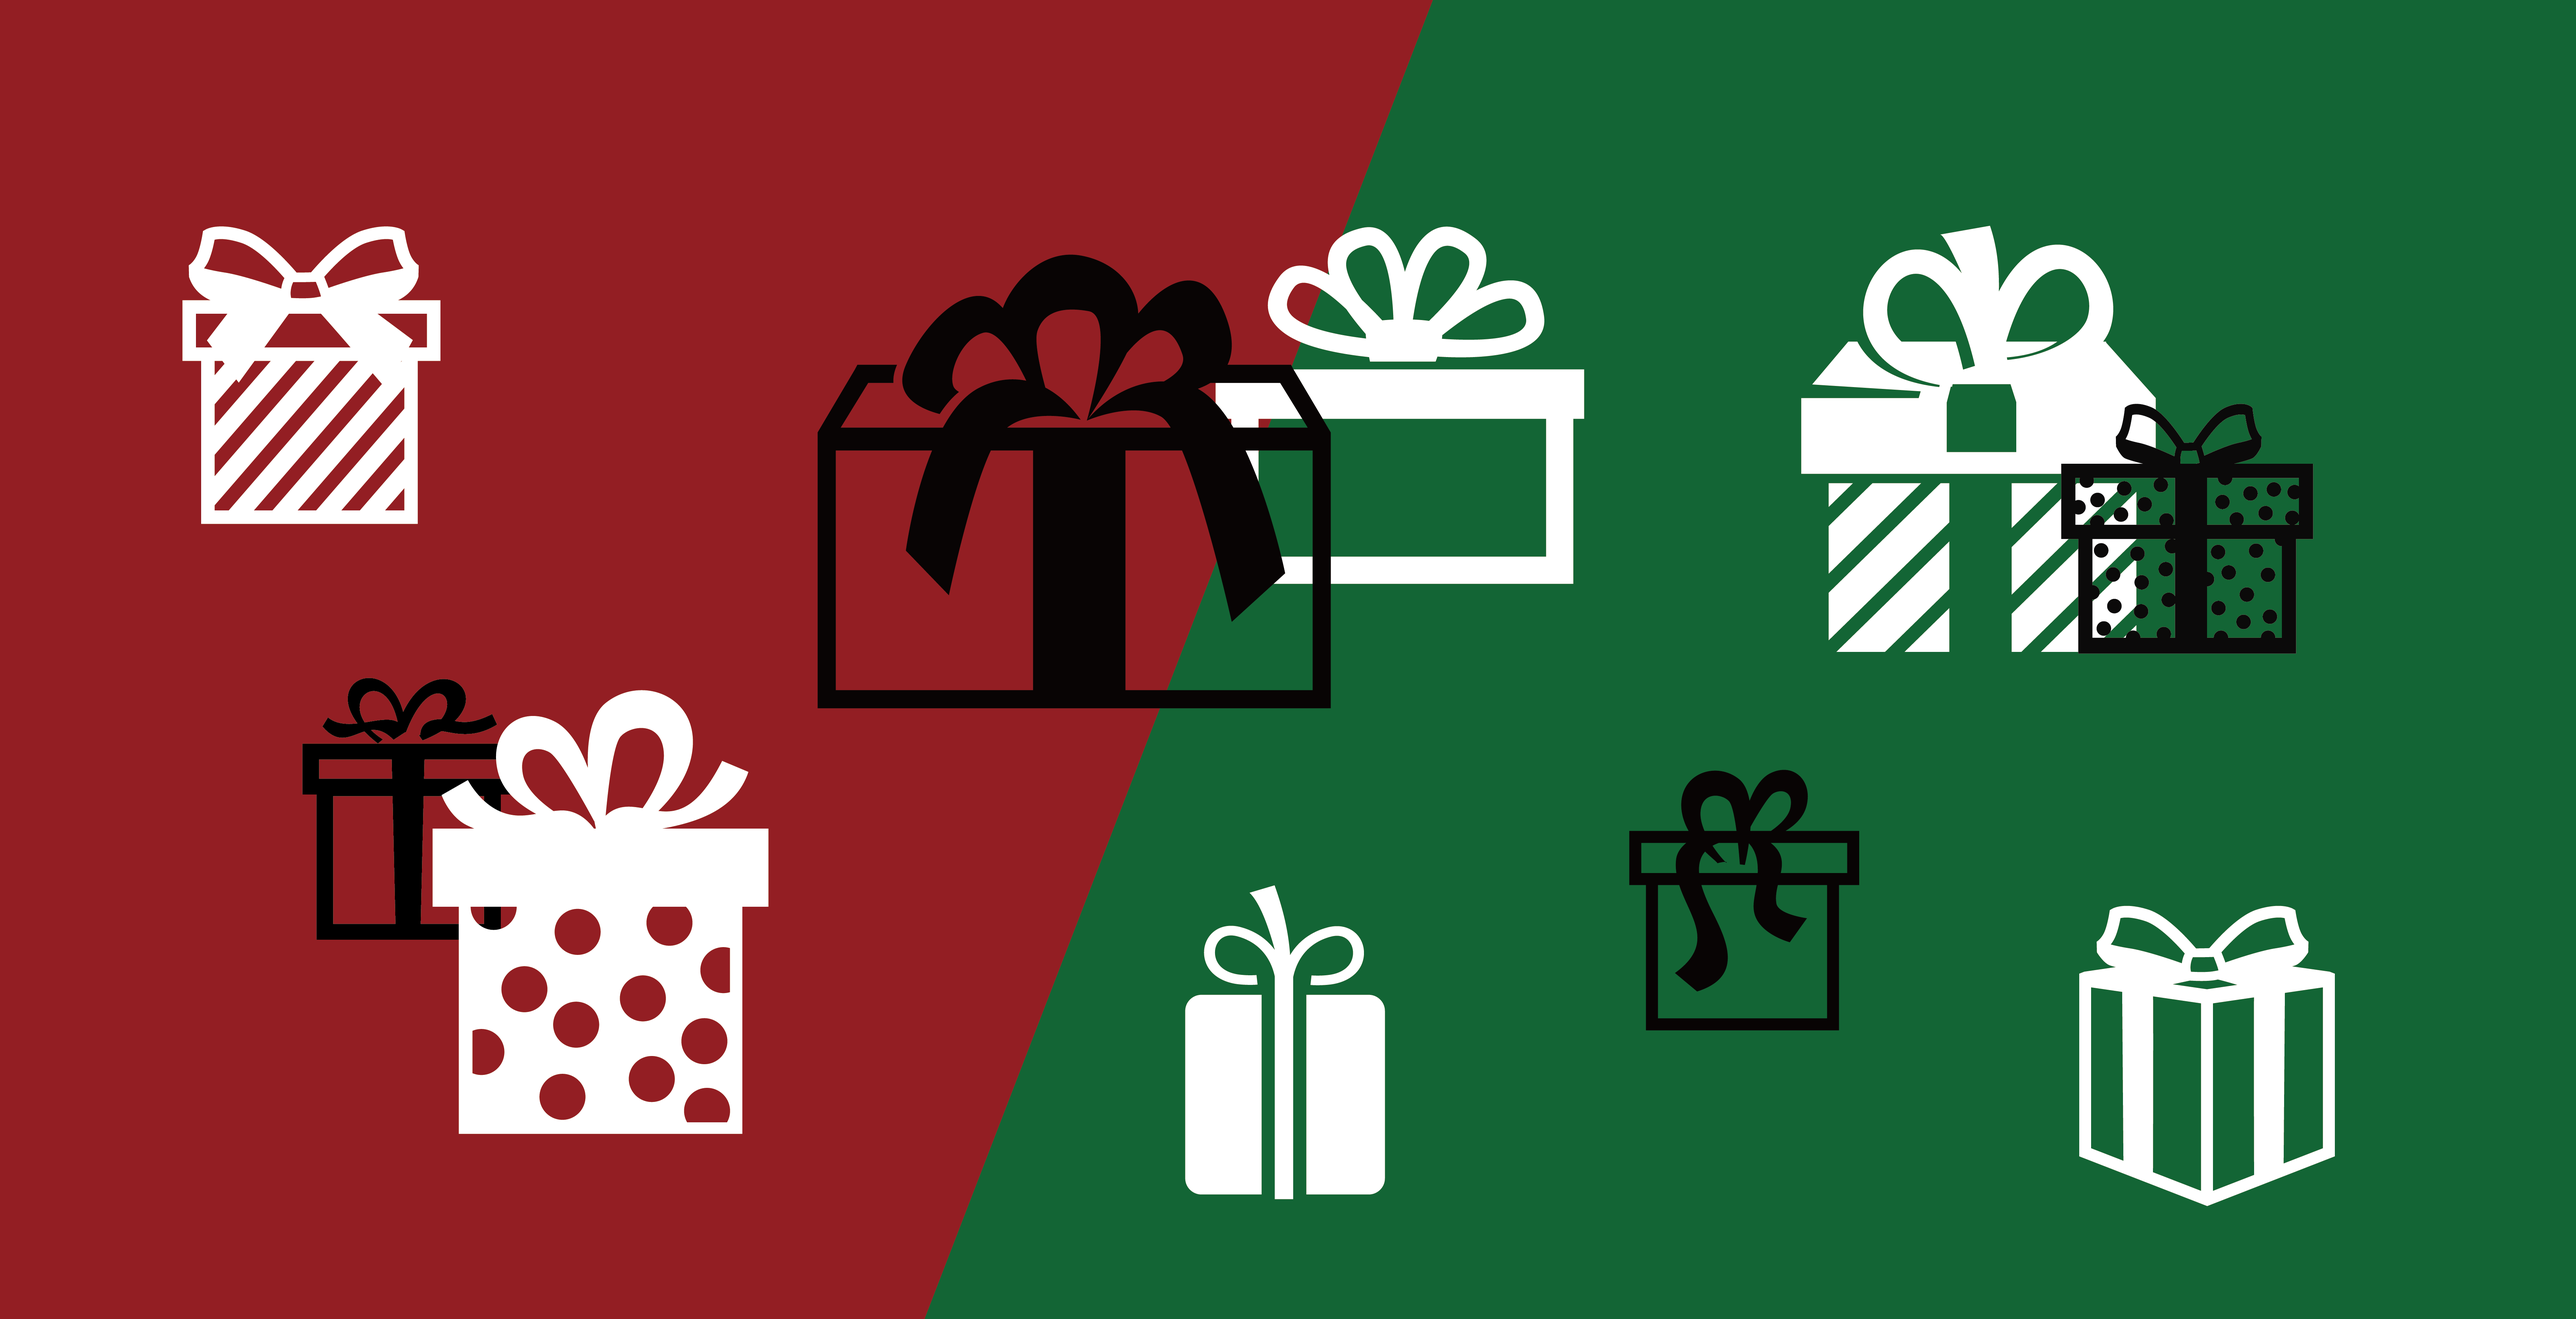
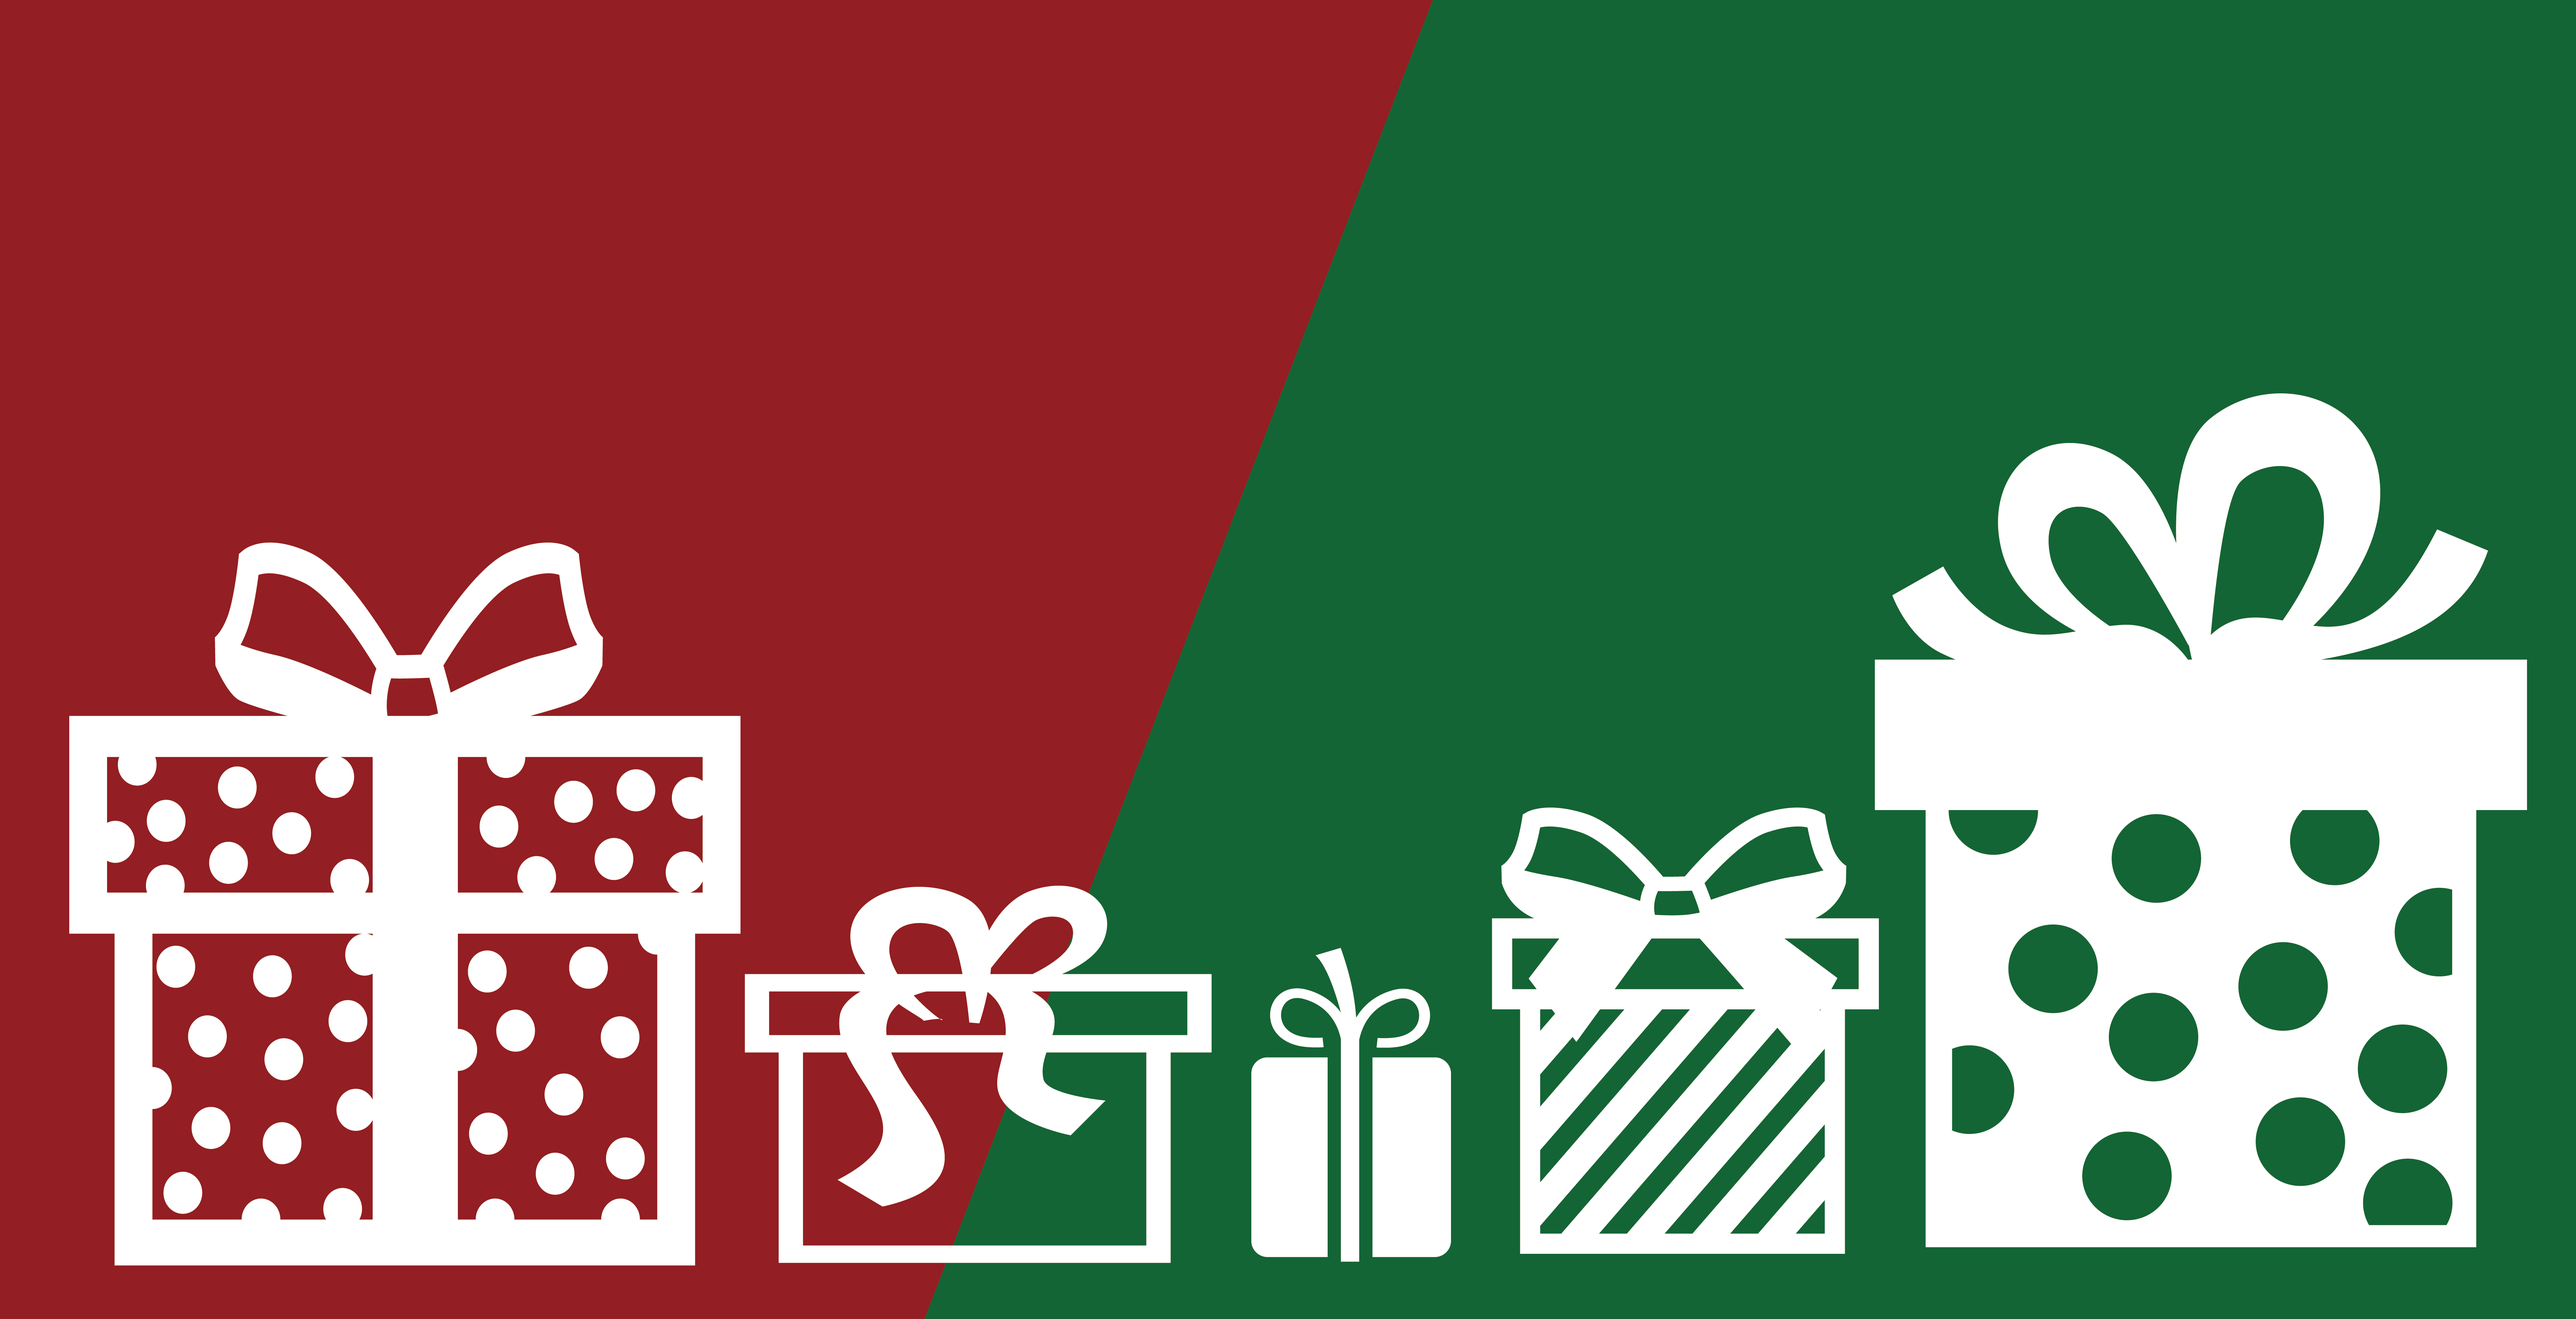
header photo updated

diff --git a/css/grayscale.min.css b/css/grayscale.min.css
@@ -95,8 +95,8 @@ canvas{
 	height: auto;
 	min-height: 35rem;
 	padding: 15rem 0;
-	background: -webkit-gradient(linear, left top, left bottom, from(rgba(22,22,22,.1)), color-stop(75%, rgba(22,22,22,.5)), to(#161616)), url(https://storage.googleapis.com/futurecity-cms-cwg-tw/article/201812/article-5c0f6935b783f.png);
-	background: linear-gradient(to bottom, rgba(22,22,22,.1) 0, rgba(22,22,22,.5) 75%, #161616 100%), url(https://storage.googleapis.com/futurecity-cms-cwg-tw/article/201812/article-5c0f6935b783f.png);
+	background: -webkit-gradient(linear, left top, left bottom, from(rgba(22,22,22,.1)), color-stop(75%, rgba(22,22,22,.5)), to(#161616)), url(https://storage.googleapis.com/futurecity-cms-cwg-tw/article/201812/article-5c0f753dcf440.png);
+	background: linear-gradient(to bottom, rgba(22,22,22,.1) 0, rgba(22,22,22,.5) 75%, #161616 100%), url(https://storage.googleapis.com/futurecity-cms-cwg-tw/article/201812/article-5c0f753dcf440.png);
 	background-position: center;
 	background-repeat: no-repeat;
 	background-attachment: scroll;
